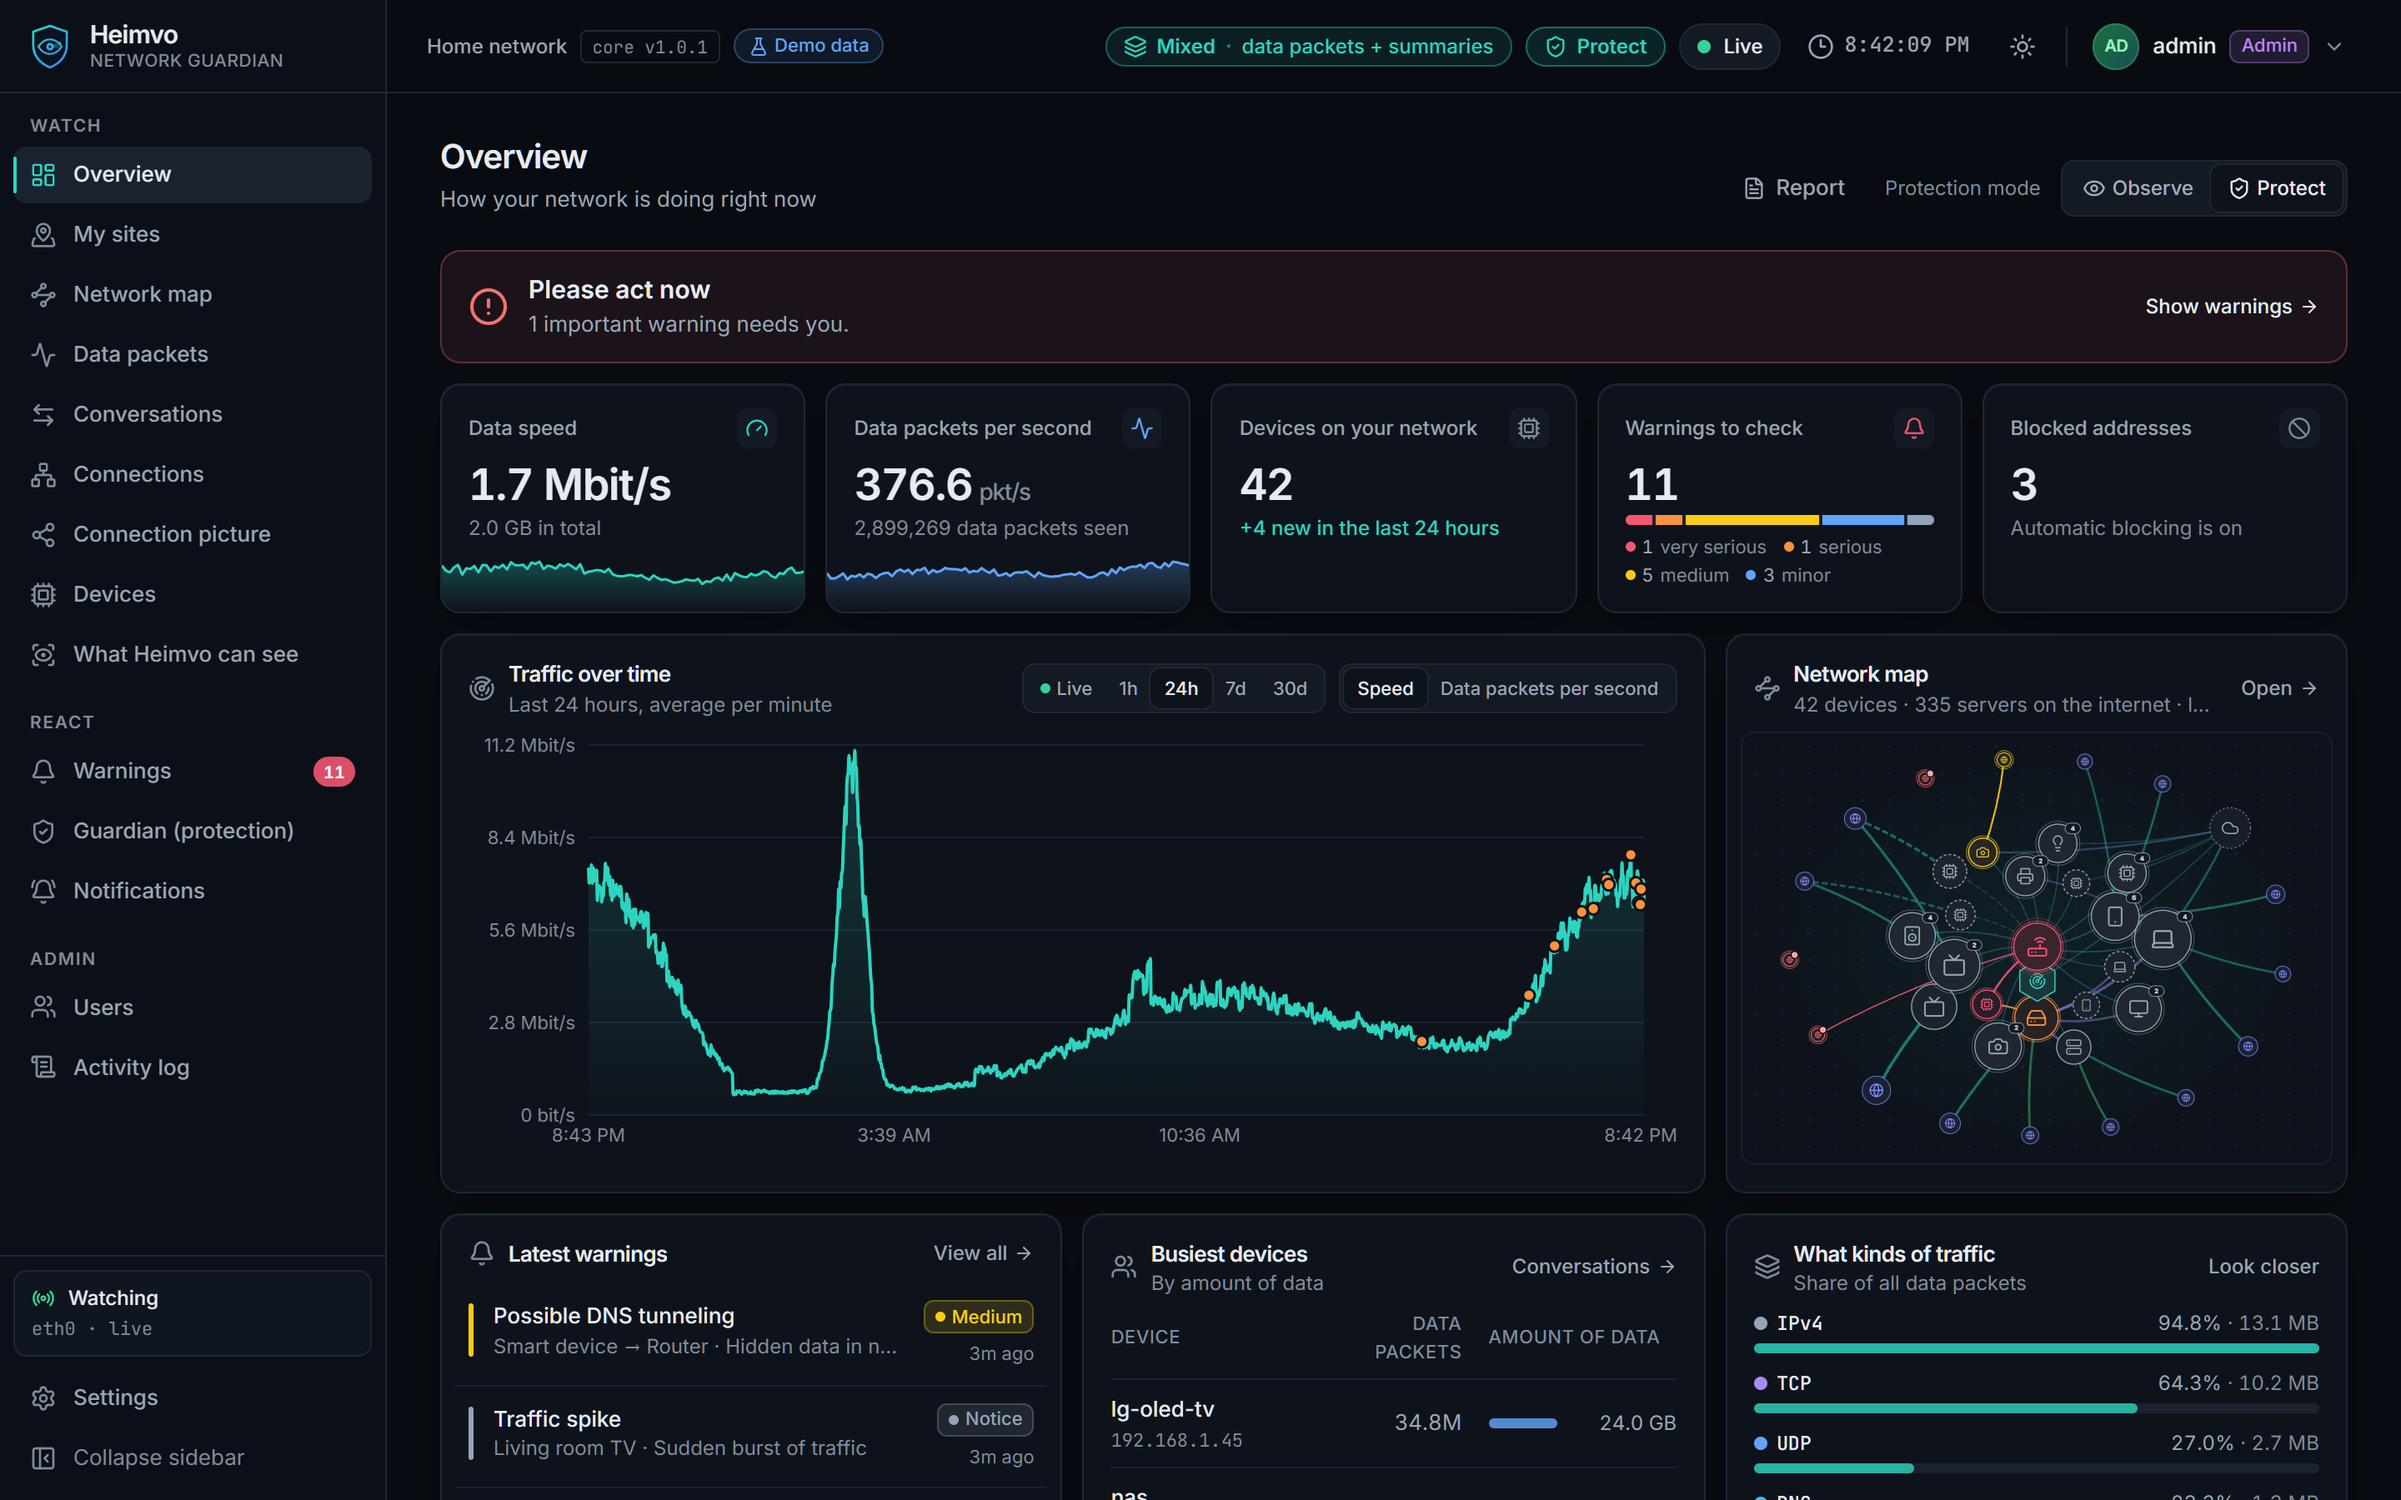
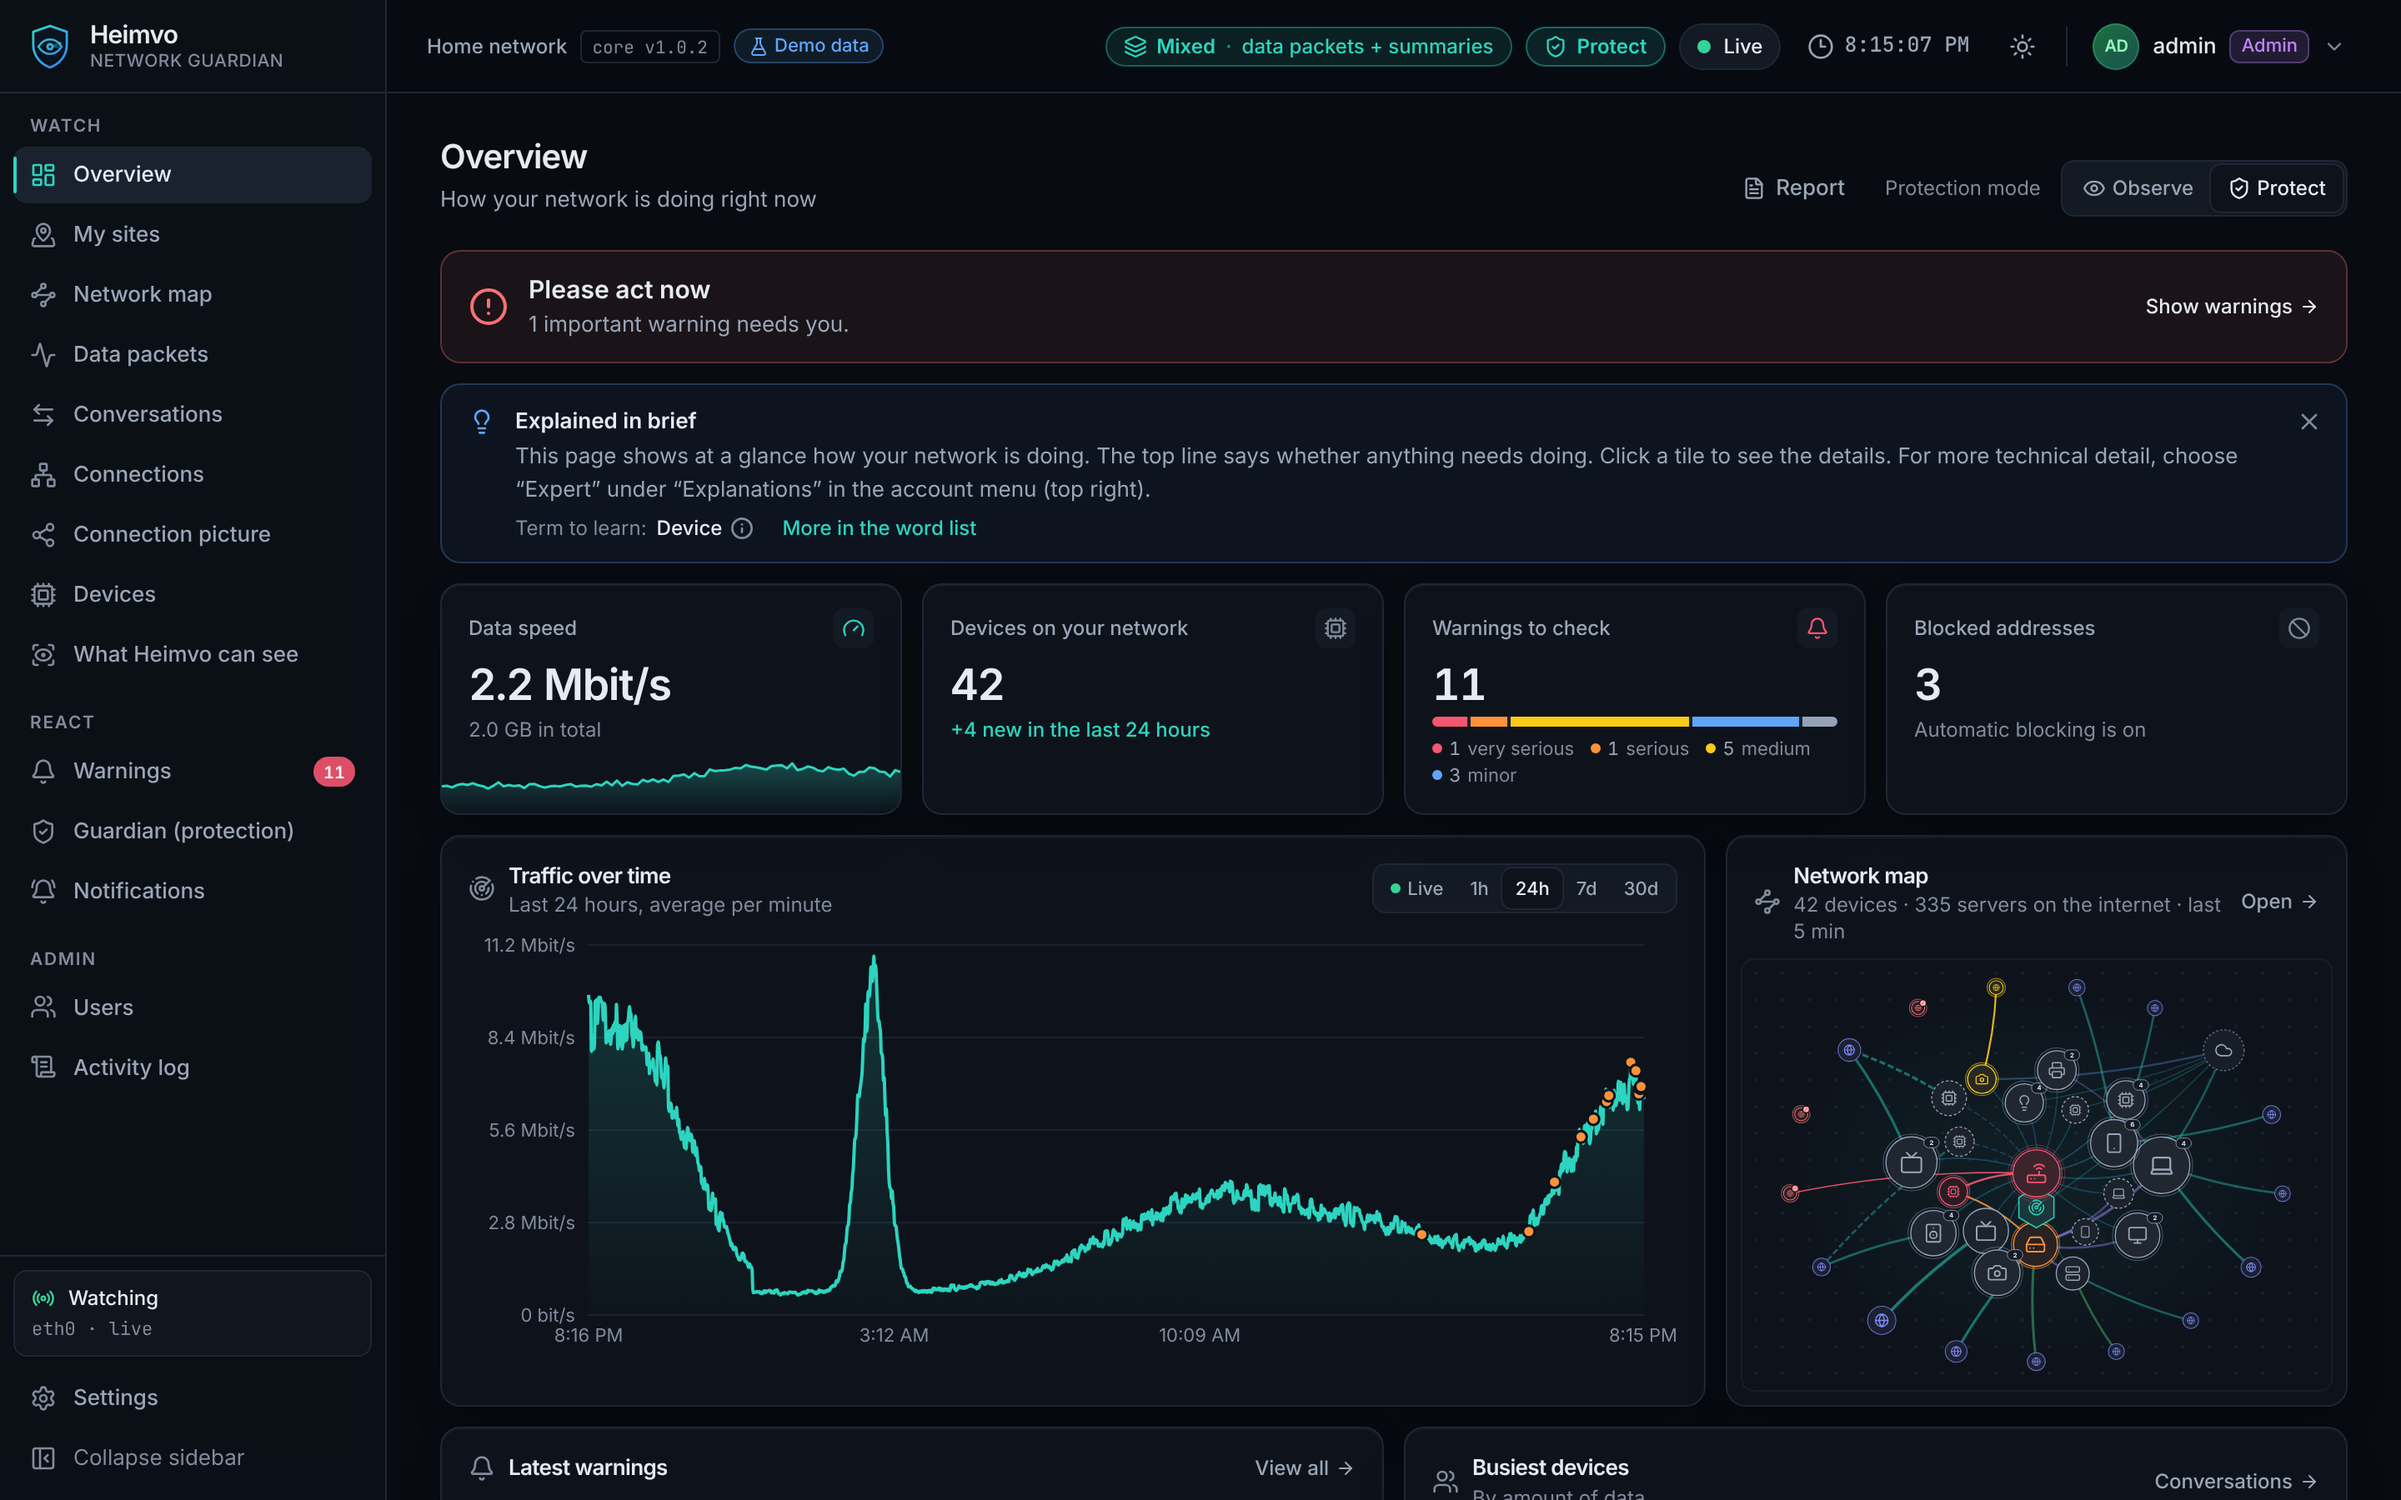
docs: 1.0.2 README, screenshots and supported version
Explanation levels (Beginner, Simple, Expert) and the "Explained in brief"
notes get their own section and an FAQ entry; the Pro table lists several
sites; Pro trial length (30 days) is stated. New screenshots from 1.0.2
(same files and sizes). SECURITY.md named 0.17.x as supported.

diff --git a/README.md b/README.md
@@ -15,7 +15,7 @@ Es meldet fremde Geräte und Angriffe in Klartext und sperrt sie auf Wunsch auto
 
 ## [⬇ Heimvo für Windows herunterladen](https://github.com/Reinert-Digital/heimvo-releases/releases/latest)
 
-<sub>Windows 10 und 11 (64-Bit) · Deutsch und Englisch · Kostenlos nutzbar, Pro kostenlos testen</sub>
+<sub>Windows 10 und 11 (64-Bit) · Deutsch und Englisch · Kostenlos nutzbar, Pro 30 Tage kostenlos testen</sub>
 
 <br/>
 
@@ -32,6 +32,14 @@ Es meldet fremde Geräte und Angriffe in Klartext und sperrt sie auf Wunsch auto
 | Aus `none-2` wird **Amazon Echo**, aus `wpad.fritz.box` die **FRITZ!Box 6670**. Ordnen Sie Besitzer und Raum zu: „Annas iPhone, Wohnzimmer“. | Ein unbekanntes Gerät, ein Port-Scan oder ein Programm, das heimlich Daten sendet? Heimvo erklärt, was passiert ist und was Sie tun können. | Verdächtige Adressen sperren Sie direkt in Heimvo oder lassen sie automatisch sperren. Router und eigene Geräte sind davor geschützt. |
 
 <img src="assets/screenshot-devices-drawer.png" alt="Gerät mit Modell, Besitzer und automatisch erkanntem Typ" width="100%">
+
+## Verständlich für Einsteiger, vollständig für Profis
+
+Sie wählen selbst, wie viel Technik Heimvo zeigt, und können jederzeit im Kontomenü wechseln:
+
+- **Einsteiger:** klare Sprache, nur das Wichtigste auf jeder Seite. Ein kurzer Kasten **„Kurz erklärt“** sagt, was die Seite zeigt und was zu tun ist, und erklärt nebenbei einen Fachbegriff. So lernen Sie Ihr Netzwerk Schritt für Schritt kennen.
+- **Einfach:** Alltagswörter und kurze Sätze, verständlich ab etwa 15 Jahren.
+- **Profi:** alle Details mit Fachbegriffen, von IP- und MAC-Adresse bis zum einzelnen Datenpaket.
 
 ## Installation in 3 Schritten
 
@@ -71,6 +79,7 @@ Der angezeigte `Hash` muss mit dem Text in der `.sha256`-Datei übereinstimmen. 
 | Familien-Schutz | | ✅ |
 | **Sperren** und **Fehlalarm** direkt aus der Push-Nachricht | | ✅ |
 | Verbindungs-Bild | | ✅ |
+| Mehrere Standorte zentral im Blick | | ✅ |
 
 ## Ihre Daten bleiben bei Ihnen
 
@@ -92,6 +101,8 @@ Der angezeigte `Hash` muss mit dem Text in der `.sha256`-Datei übereinstimmen. 
 ## Häufige Fragen
 
 **Brauche ich neue Hardware?** Nein. Ein Windows-PC im Heimnetz genügt.
+
+**Ich kenne mich mit Netzwerken nicht aus. Ist Heimvo trotzdem etwas für mich?** Ja. Wählen Sie im Kontomenü unter „Erklärungen“ die Stufe „Einsteiger“ oder „Einfach“. Dann zeigt Heimvo nur das Wichtige und erklärt jede Seite kurz.
 
 **Wie aktualisiere ich?** Laden Sie die neue Version herunter und installieren Sie sie darüber. Ihre Einstellungen und Geräte bleiben erhalten.
 

diff --git a/README.en.md b/README.en.md
@@ -15,7 +15,7 @@ It reports unknown devices and attacks in plain language and can block them auto
 
 ## [⬇ Download Heimvo for Windows](https://github.com/Reinert-Digital/heimvo-releases/releases/latest)
 
-<sub>Windows 10 and 11 (64-bit) · English and German · Free to use, try Pro for free</sub>
+<sub>Windows 10 and 11 (64-bit) · English and German · Free to use, try Pro free for 30 days</sub>
 
 <br/>
 
@@ -32,6 +32,14 @@ It reports unknown devices and attacks in plain language and can block them auto
 | `none-2` becomes **Amazon Echo**, `wpad.fritz.box` becomes **FRITZ!Box 6670**. Assign owner and room: "Anna's iPhone, living room". | An unknown device, a port scan or a program quietly sending data? Heimvo explains what happened and what you can do. | Block suspicious addresses right in Heimvo or let it block them automatically. Your router and your own devices are protected from that. |
 
 <img src="assets/screenshot-devices-drawer-en.png" alt="Device with model, owner and automatically detected type" width="100%">
+
+## Easy for beginners, complete for experts
+
+You choose how much technical detail Heimvo shows, and you can switch at any time in the account menu:
+
+- **Beginner:** plain language and only what matters on each page. A short **"Explained in brief"** note says what the page shows and what to do, and explains one technical term on the way. That way you get to know your network step by step.
+- **Simple:** everyday words and short sentences, easy to follow from about age 15.
+- **Expert:** every detail with the technical terms, from IP and MAC addresses down to single data packets.
 
 ## Install in 3 steps
 
@@ -71,6 +79,7 @@ The `Hash` shown must match the text in the `.sha256` file. If it differs, do no
 | Family protection | | ✅ |
 | **Block** and **False alarm** right from the push notification | | ✅ |
 | Connection picture | | ✅ |
+| Several sites at a glance | | ✅ |
 
 ## Your data stays with you
 
@@ -92,6 +101,8 @@ The `Hash` shown must match the text in the `.sha256` file. If it differs, do no
 ## FAQ
 
 **Do I need new hardware?** No. A Windows PC in your home network is enough.
+
+**I know nothing about networks. Is Heimvo still for me?** Yes. In the account menu, choose "Beginner" or "Simple" under "Explanations". Heimvo then shows only what matters and explains every page in brief.
 
 **How do I update?** Download the new version and install it over the old one. Your settings and devices are kept.
 

diff --git a/SECURITY.md b/SECURITY.md
@@ -5,7 +5,7 @@ verantwortungsvolle Meldung.
 
 ## Unterstützte Versionen
 
-Sicherheitskorrekturen gibt es für die jeweils neueste Version (aktuell `0.17.x`).
+Sicherheitskorrekturen gibt es für die jeweils neueste Version (aktuell `1.0.x`).
 Bitte aktualisieren Sie vor einer Meldung auf die
 [neueste Version](https://github.com/Reinert-Digital/heimvo-releases/releases/latest).
 
